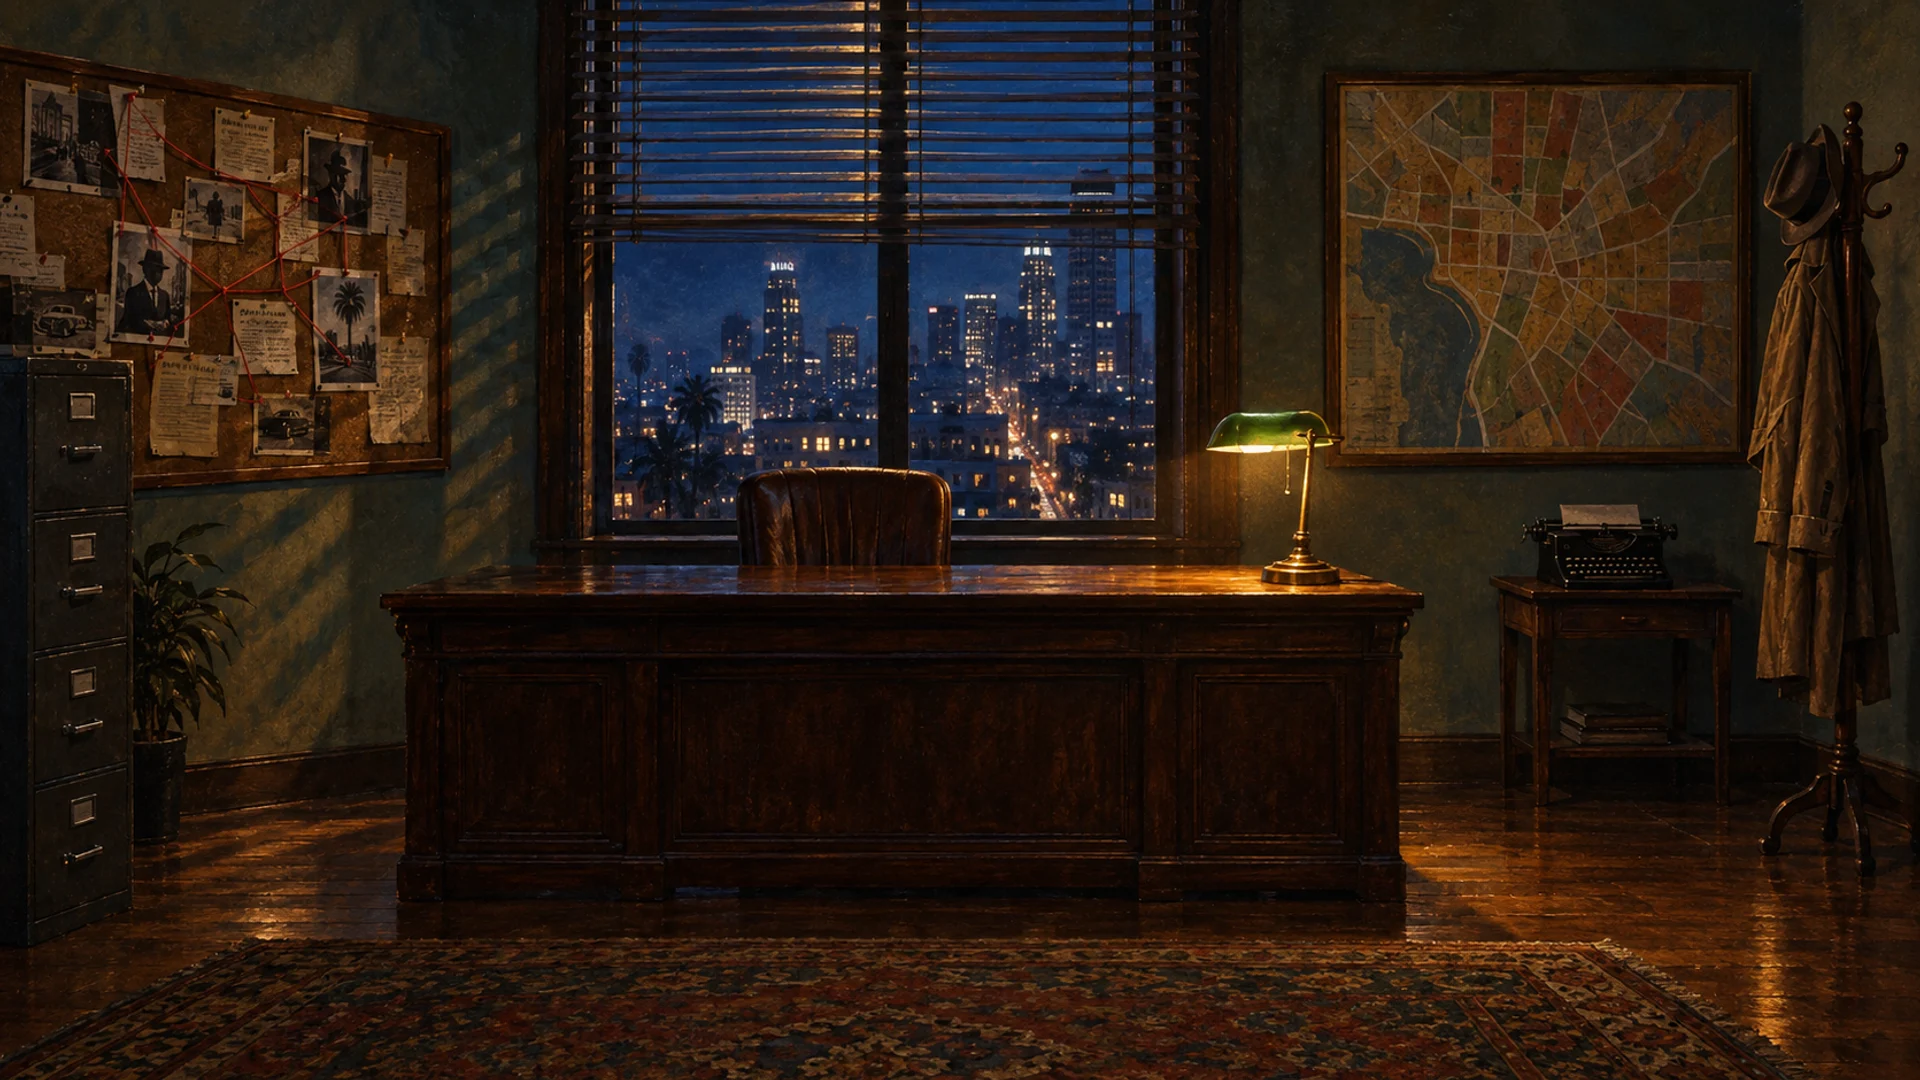
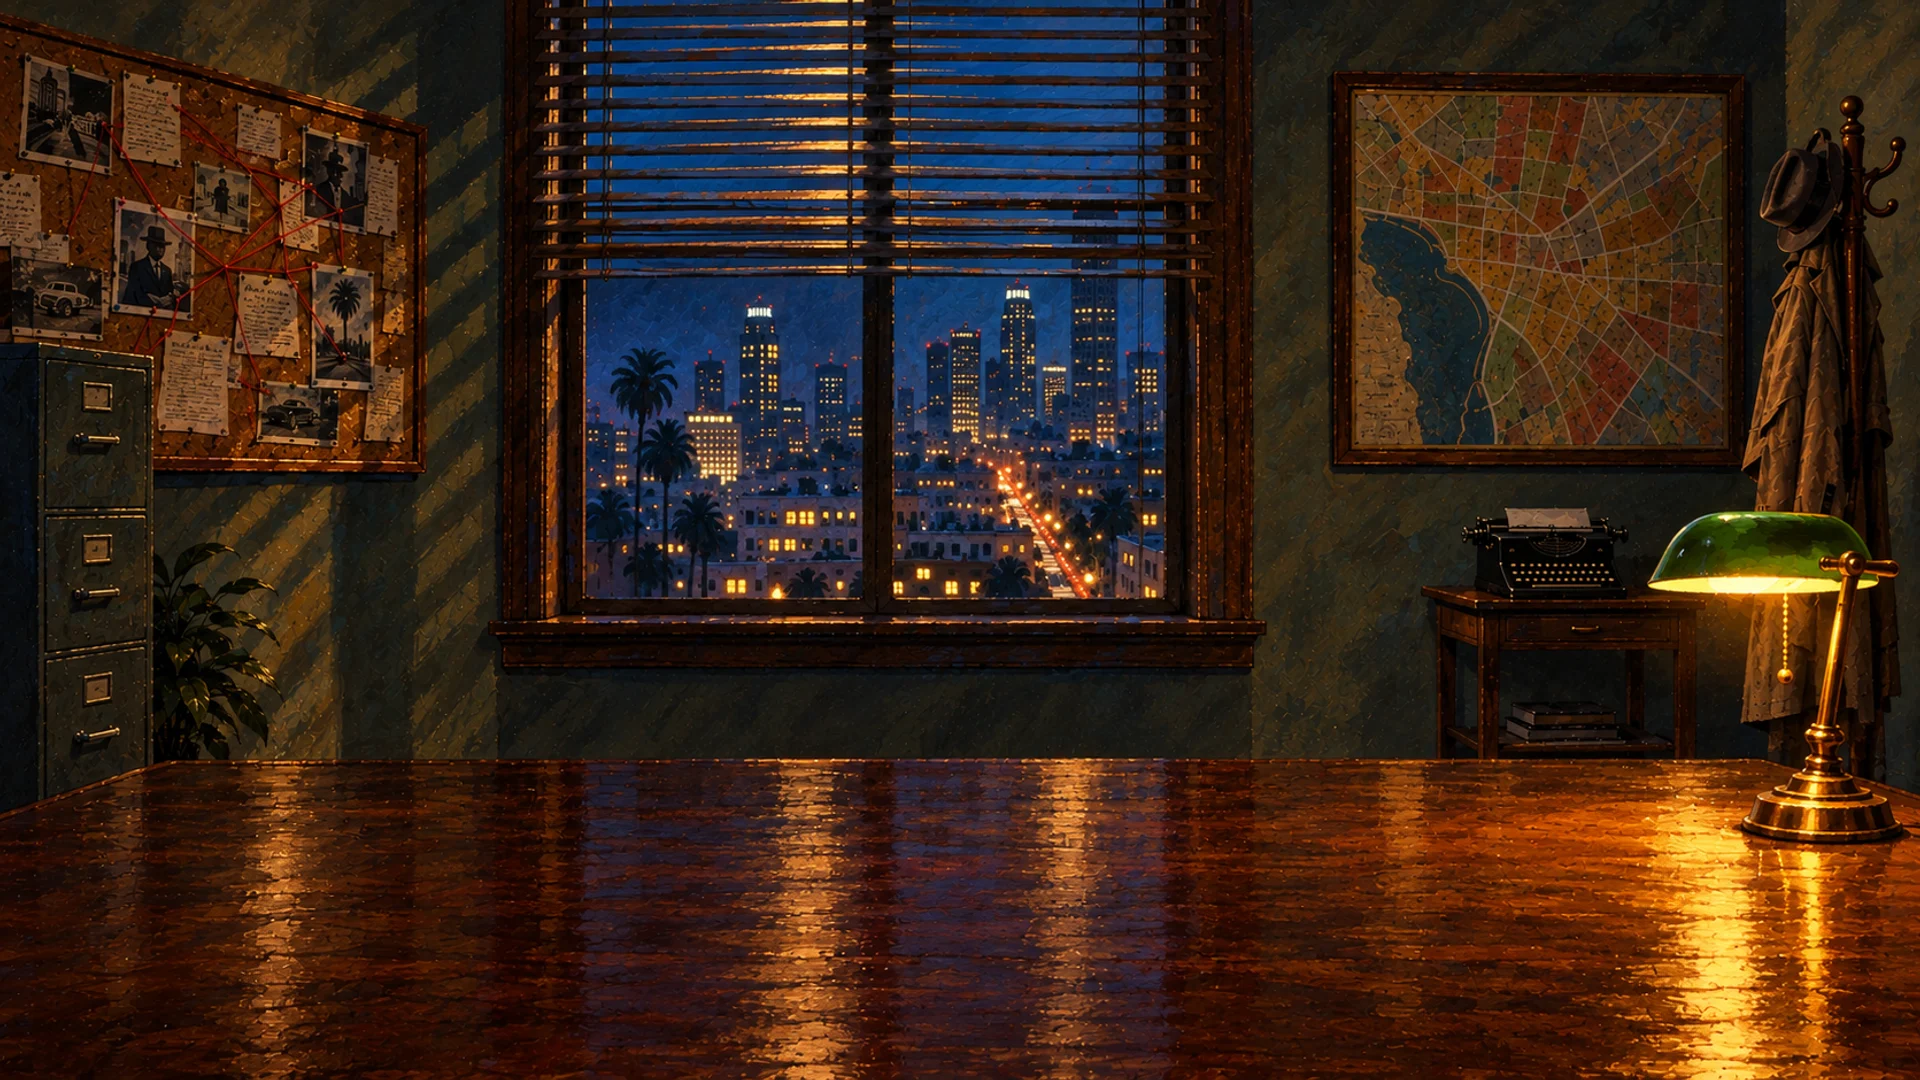
New office painting with a full desk top, and Margaret's house
Desk items laid out across the new desk; Margaret, the photograph and the
cat placed in her front room.

Claude-Session: https://claude.ai/code/session_019A25tbSsANg95T2YaNZPfi

diff --git a/src/cases/C001/locations.ts b/src/cases/C001/locations.ts
@@ -4,7 +4,7 @@ import { reportAvailable } from "./story";
 /*
  * Scene layout for C001. Hotspot rectangles are percentages of a 16:9 frame.
  * Rooms with a painting in public/art are laid out to match that painting;
- * the living room and Margaret's house still match their placeholder art.
+ * the living room still matches its placeholder art.
  */
 
 const briefed: Condition = { flag: "casefile_read" };
@@ -103,21 +103,21 @@ export const locations: LocationDef[] = [
     available: { always: true },
     onMap: true,
     hotspots: [
-      panel("office_casefile", "Case file from Det. Bennett", "folder", { x: 39.5, y: 49.5, w: 9, h: 6.5 }, "casefile"),
-      inspect("office_labreport", "Laboratory report folder", "labfolder", { x: 28.5, y: 50.5, w: 6, h: 5.5 }, "Laboratory report", "A thin folder from the LAPD laboratory, clipped to the case file's covering note.", { evidence: "E11" }),
-      panel("office_board", "Murder board", "board", { x: 0, y: 4, w: 24, h: 41 }, "board"),
-      { ...panel("office_phone", "Telephone", "phone", { x: 21.5, y: 46.5, w: 6.5, h: 9 }, "phone"), attention: { callPending: "call_margaret_sedan" } },
-      panel("office_notebook", "Notebook", "notebook", { x: 34.5, y: 51, w: 5, h: 5 }, "notebook"),
-      panel("office_map", "Street map of Los Angeles", "map", { x: 69, y: 6, w: 22, h: 37 }, "map"),
-      panel("office_recorder", "Police interview tapes", "recorder", { x: 48.5, y: 48, w: 6.5, h: 8 }, "statements", briefed),
-      panel("office_mail", "Opened mail", "tray", { x: 55, y: 50, w: 6, h: 6 }, "delivery", { any: [{ deliveryOpened: "jacket_recovered" }, { deliveryOpened: "patricia_envelope" }] }),
+      panel("office_casefile", "Case file from Det. Bennett", "folder", { x: 22, y: 82, w: 18, h: 16 }, "casefile"),
+      inspect("office_labreport", "Laboratory report folder", "labfolder", { x: 16, y: 73, w: 11, h: 11 }, "Laboratory report", "A thin folder from the LAPD laboratory, clipped to the case file's covering note.", { evidence: "E11" }),
+      panel("office_board", "Murder board", "board", { x: 0, y: 3, w: 22, h: 41 }, "board"),
+      { ...panel("office_phone", "Telephone", "phone", { x: 2, y: 68, w: 13, h: 17 }, "phone"), attention: { callPending: "call_margaret_sedan" } },
+      panel("office_notebook", "Notebook", "notebook", { x: 28, y: 73, w: 10, h: 11 }, "notebook"),
+      panel("office_map", "Street map of Los Angeles", "map", { x: 70, y: 6, w: 21, h: 37 }, "map"),
+      panel("office_recorder", "Police interview tapes", "recorder", { x: 39, y: 70, w: 13, h: 14 }, "statements", briefed),
+      panel("office_mail", "Opened mail", "tray", { x: 53, y: 72, w: 12, h: 12 }, "delivery", { any: [{ deliveryOpened: "jacket_recovered" }, { deliveryOpened: "patricia_envelope" }] }),
       // Event objects: they appear on the desk when a delivery arrives and stay until their evidence is collected.
-      deskItem("office_envelope", "Manila envelope", "patricia_envelope", "E15", { x: 61, y: 50, w: 5, h: 6 }, "obj.envelope_sealed", "obj.envelope_open"),
-      deskItem("office_evidencebag", "Police evidence bag", "jacket_recovered", "E05", { x: 70, y: 45.5, w: 4, h: 10 }, "obj.evidence_bag", "obj.evidence_bag_open"),
-      panel("office_typewriter", "Typewriter: final report", "typewriter", { x: 79, y: 44.5, w: 9, h: 9.5 }, "conclusion", reportAvailable),
+      deskItem("office_envelope", "Manila envelope", "patricia_envelope", "E15", { x: 42, y: 84, w: 13, h: 13 }, "obj.envelope_sealed", "obj.envelope_open"),
+      deskItem("office_evidencebag", "Police evidence bag", "jacket_recovered", "E05", { x: 66, y: 65, w: 9, h: 20 }, "obj.evidence_bag", "obj.evidence_bag_open"),
+      panel("office_typewriter", "Typewriter: final report", "typewriter", { x: 76, y: 46, w: 9.5, h: 10 }, "conclusion", reportAvailable),
       // The final report folder appears on the desk once the investigation has enough substance to report on.
       {
-        ...panel("office_report", "Final report folder", "sprite", { x: 83, y: 52, w: 6, h: 4.5 }, "conclusion", reportAvailable),
+        ...panel("office_report", "Final report folder", "sprite", { x: 58, y: 84, w: 15, h: 13 }, "conclusion", reportAvailable),
         sprite: [{ image: "obj.report_folder" }],
       },
     ],
@@ -215,11 +215,11 @@ export const locations: LocationDef[] = [
     available: briefed,
     onMap: true,
     hotspots: [
-      person("m_margaret", "Margaret Ellis", "margaret", { x: 56, y: 20, w: 14, h: 60 }),
-      inspect("m_window", "Front window", "frontwindow", { x: 9, y: 12, w: 29, h: 38 }, "Front window", "Through the lace curtains you can see Eleanor's porch and the jacaranda tree at her kerb. The streetlight is directly beside it."),
-      inspect("m_tv", "Television", "tv", { x: 77, y: 44, w: 15, h: 22 }, "Television", "A Zenith console set. A TV Guide lies open at Friday: the late news on Channel 2 ended at 11:30."),
-      inspect("m_photo", "Framed photograph", "photo", { x: 81, y: 16, w: 9, h: 14 }, "Framed photograph", "Opening of the reading room at the Hollister branch library, 1983. Eleanor holds the scissors at the ribbon. Margaret stands beside her."),
-      inspect("m_cat", "Cat", "cat", { x: 39, y: 71, w: 9, h: 9 }, "Cat", "A large ginger tom, asleep on the rug. He has a habit of being let in late."),
+      person("m_margaret", "Margaret Ellis", "margaret", { x: 40, y: 21, w: 14, h: 63 }),
+      inspect("m_window", "Front window", "frontwindow", { x: 6, y: 2, w: 34, h: 52 }, "Front window", "Through the lace curtains you can see Eleanor's porch and the jacaranda tree at her kerb. The streetlight is directly beside it."),
+      inspect("m_tv", "Television", "tv", { x: 52.5, y: 21, w: 18, h: 43 }, "Television", "A Zenith console set. A TV Guide lies open at Friday: the late news on Channel 2 ended at 11:30."),
+      inspect("m_photo", "Framed photograph", "photo", { x: 53.5, y: 31, w: 5, h: 8 }, "Framed photograph", "Opening of the reading room at the Hollister branch library, 1983. Eleanor holds the scissors at the ribbon. Margaret stands beside her."),
+      inspect("m_cat", "Cat", "cat", { x: 24, y: 80, w: 11, h: 11 }, "Cat", "A large ginger tom, asleep on the rug. He has a habit of being let in late."),
     ],
   },
   {
